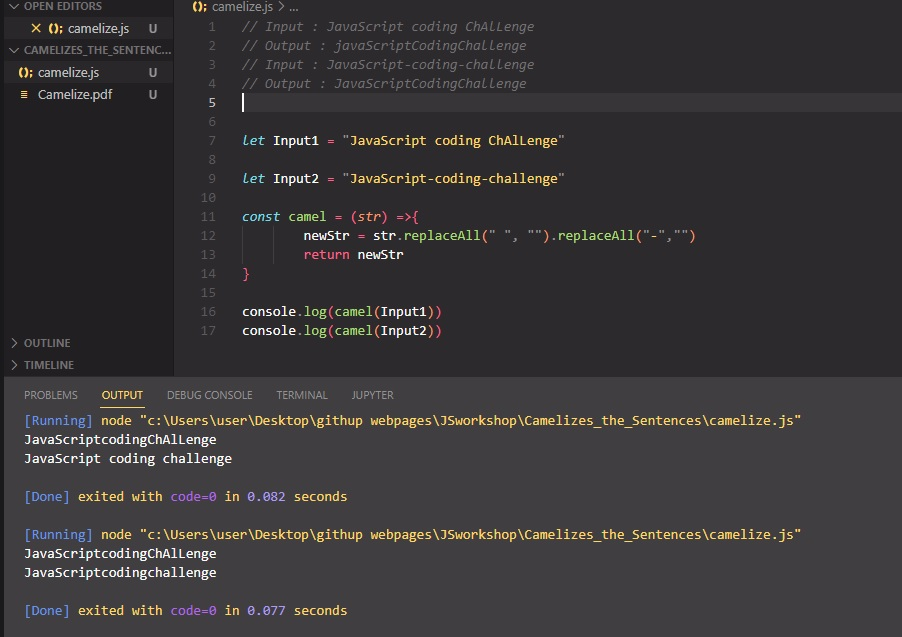
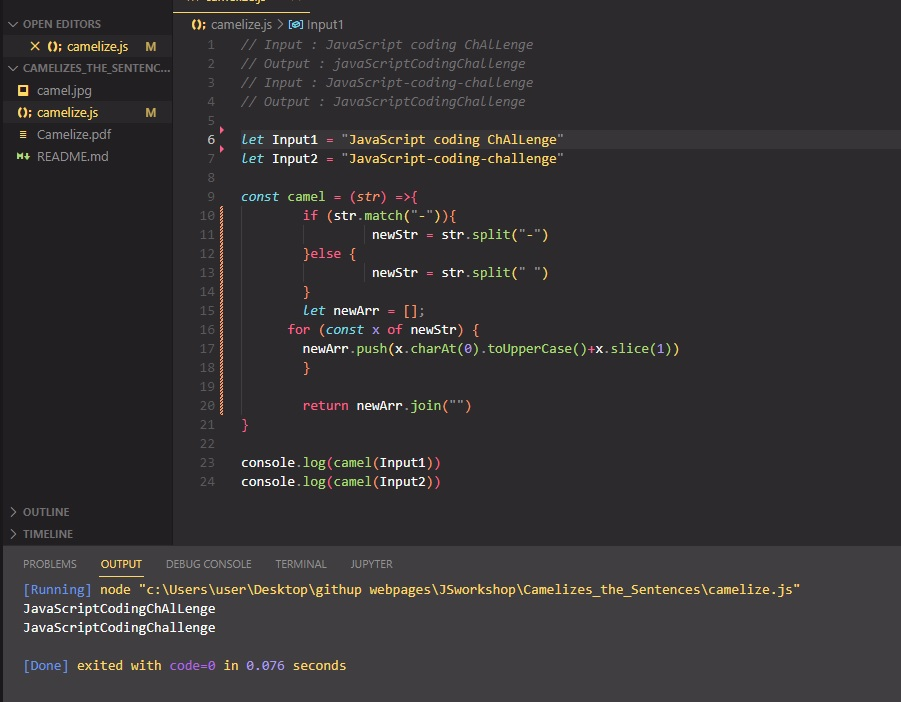
read me updated

diff --git a/Camelizes_the_Sentences/camelize.js b/Camelizes_the_Sentences/camelize.js
@@ -3,14 +3,21 @@
 // Input : JavaScript-coding-challenge
 // Output : JavaScriptCodingChallenge
 
-
 let Input1 = "JavaScript coding ChAlLenge"
-
 let Input2 = "JavaScript-coding-challenge"
 
 const camel = (str) =>{
-        newStr = str.replaceAll(" ", "").replaceAll("-","")
-        return newStr
+        if (str.match("-")){
+                 newStr = str.split("-")
+        }else {
+                 newStr = str.split(" ")
+        }
+        let newArr = [];
+      for (const x of newStr) {
+        newArr.push(x.charAt(0).toUpperCase()+x.slice(1))
+        }
+        
+        return newArr.join("")
 }
 
 console.log(camel(Input1))
